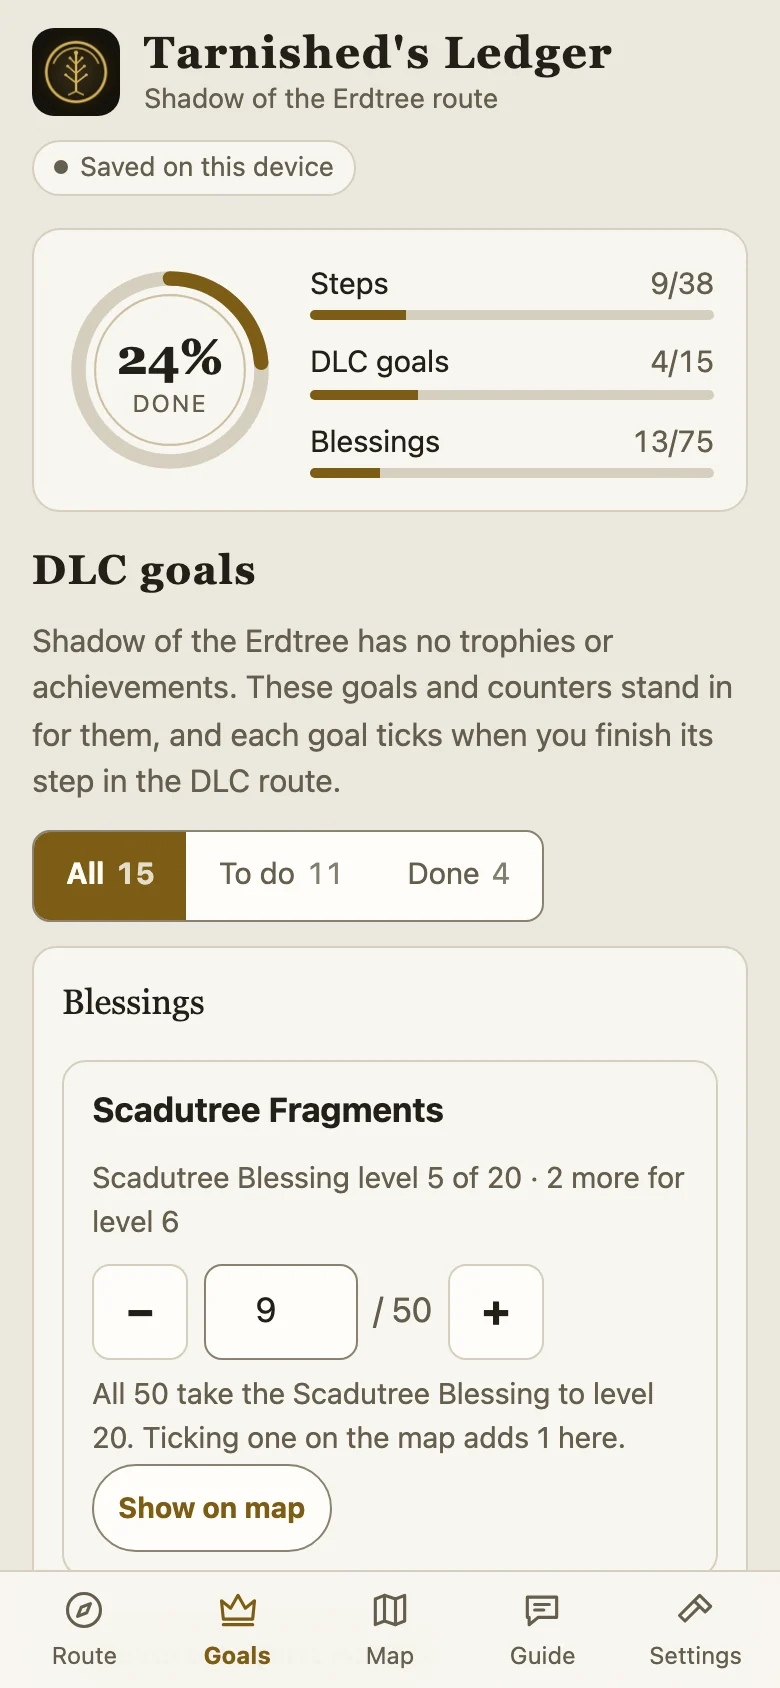
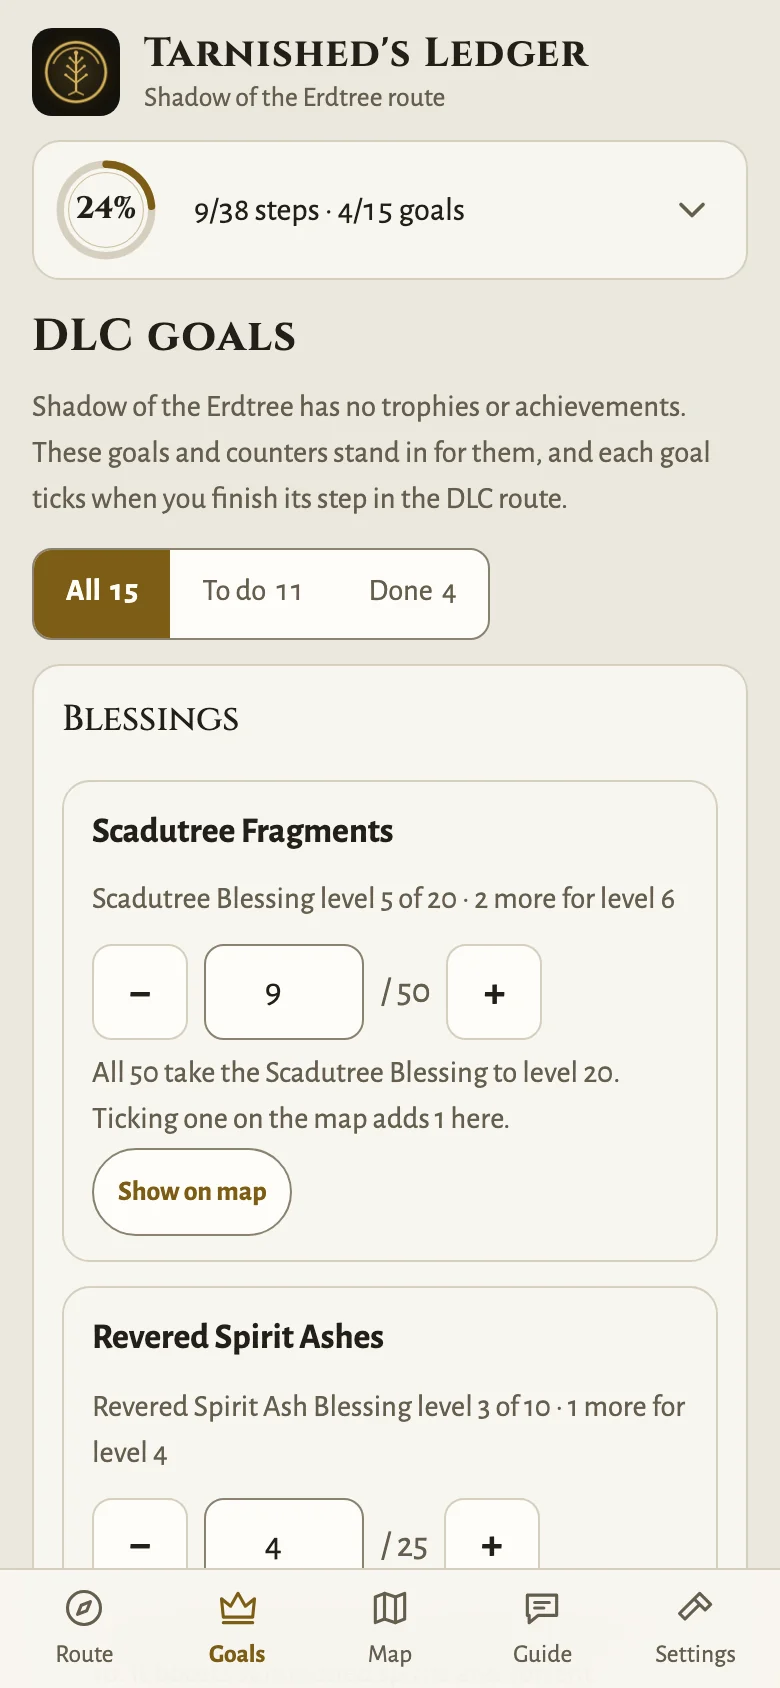
README screenshots retaken with the real fonts and the new UI; rail title and fullscreen map layer row sized for the real fonts

diff --git a/css/styles.css b/css/styles.css
@@ -114,7 +114,7 @@ section[hidden] { display: none; }
 /* brand */
 .top { display: flex; align-items: center; gap: 12px; }
 .top img { width: 44px; height: 44px; border-radius: var(--r-md); flex: none; }
-.top h1 { font-family: var(--display); font-weight: 700; font-size: var(--fs-xl); line-height: 1.1; margin: 0; letter-spacing: .04em; min-width: 0; }
+.top h1 { font-family: var(--display); font-weight: 700; font-size: 1.18rem; line-height: 1.1; margin: 0; letter-spacing: .04em; min-width: 0; }
 .top h1 small { display: block; font-family: var(--body); font-weight: 400; font-size: var(--fs-sm); letter-spacing: 0; color: var(--muted); margin-top: 3px; }
 .pills { display: flex; flex-wrap: wrap; gap: 6px; margin: 12px 0 0; }
 .pill { display: inline-flex; align-items: center; gap: 6px; font-size: var(--fs-xs); padding: 3px 10px; border-radius: 999px; border: 1px solid var(--line); color: var(--muted); background: var(--surface); }
@@ -209,6 +209,8 @@ section[hidden] { display: none; }
   .maptools #mapHere, .mapcard:not(.fs) .maptools #mapFs, .mapcard.fs .maptools #mapExit { flex: none; width: 44px; padding: 0; }
   .maptools .lbl { position: absolute; width: 1px; height: 1px; overflow: hidden; clip: rect(0 0 0 0); white-space: nowrap; }
   .mapcard:not(.fs) .maptools { gap: 10px 6px; }
+  .mapcard.fs #mapLayer { flex: 1 1 100%; }
+  .mapcard.fs #mapLayer button { flex: 1; }
   .mapcard:not(.fs) .maptools .mt-go, .mapcard.fs .maptools .mt-go { flex: 1 1 0; min-width: 5rem; max-width: none; }
   .mapcard .mt-go select { width: 100%; max-width: none; }
   .mapcard:not(.fs) .maptools > #mapFilterBtn { flex: 0 0 auto; }

diff --git a/sw.js b/sw.js
@@ -2,7 +2,7 @@
 // calls to api.github.com (sync) are never intercepted or cached.
 // Keep SHELL in step with the files in the repo: `npm run check` fails when they drift apart.
 const PREFIX = "tarnished-ledger-";
-const CACHE = PREFIX + "v34";
+const CACHE = PREFIX + "v35";
 // Map tiles never change under the same name, so they live in their own cache that survives updates.
 const TILES = PREFIX + "tiles";
 const SHELL = [
